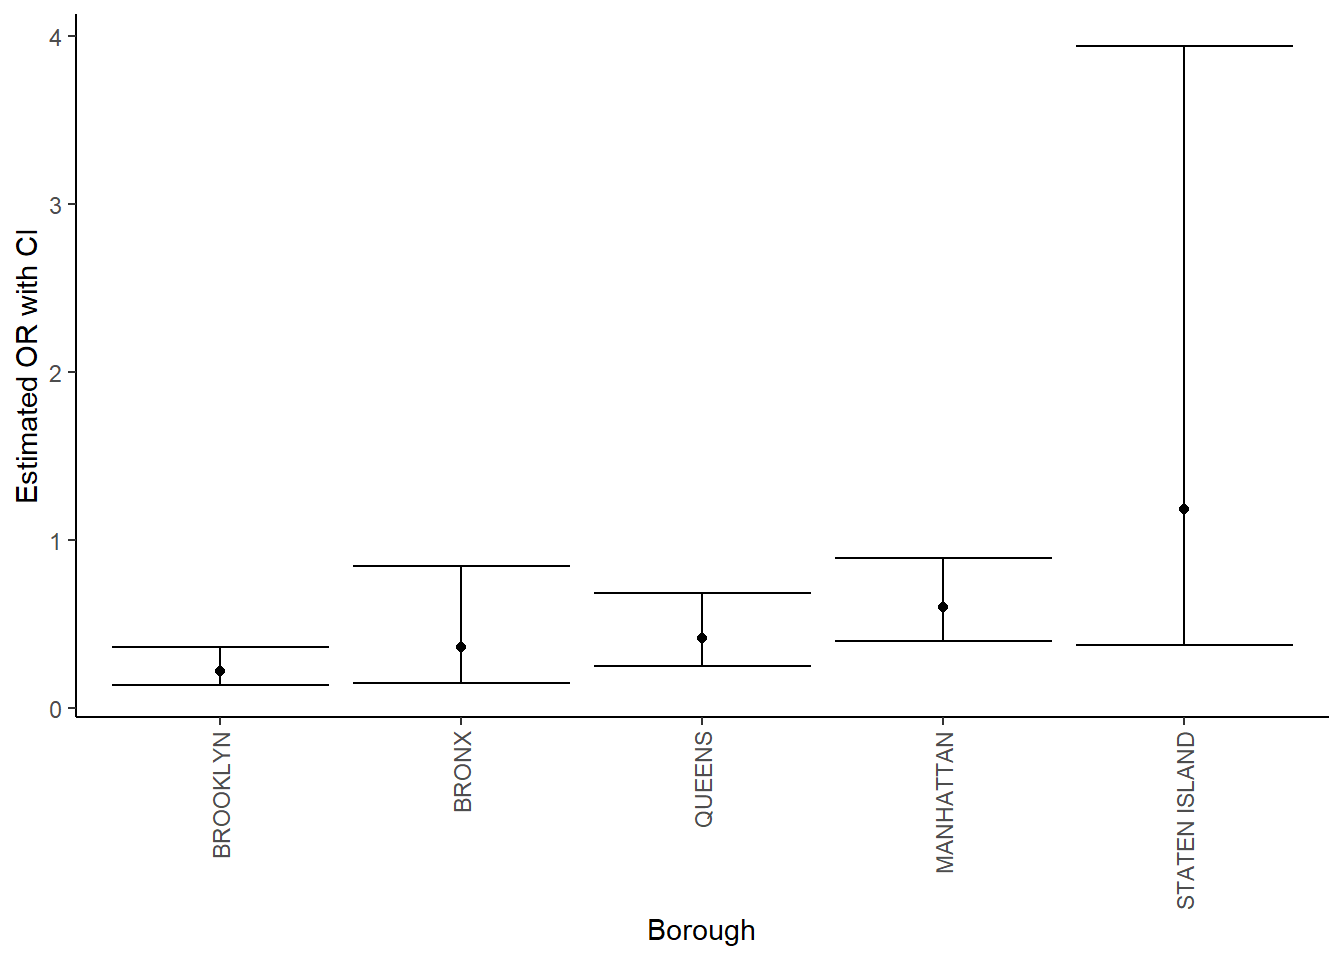
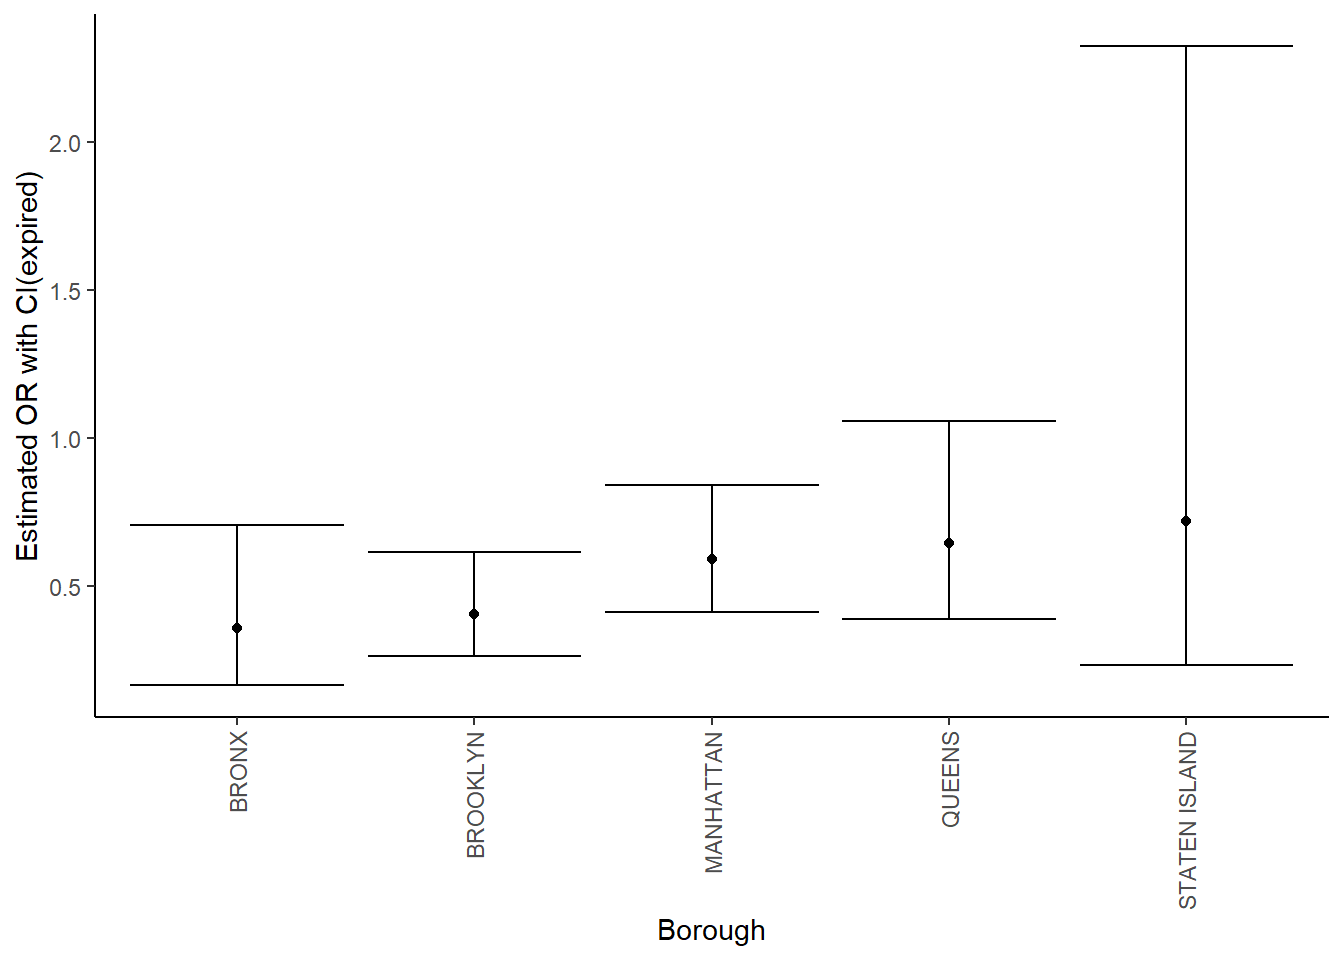
add another OR plot

diff --git a/logistic.html b/logistic.html
@@ -374,7 +374,7 @@ child_data &lt;- child_data %&gt;%
 <p>#fit a logistic regression with violation vs no violation as the
 outcome and the rest as predictors.And Obtain the estimate and CI of the
 adjusted odds ratio for having violation.</p>
-<pre class="r"><code>model_log &lt;- glm(violation ~ status  + facility_type + educational_worker_ratio,data = child_data,family = binomial(link=logit))
+<pre class="r"><code>model_log &lt;- glm(violation ~ status  + program_type + educational_worker_ratio,data = child_data,family = binomial(link=logit))
 model_log %&gt;%
   broom::tidy(conf.int = T) %&gt;% 
   mutate(OR = exp(estimate),
@@ -386,11 +386,11 @@ model_log %&gt;%
                col.names = c(&quot;Term&quot;, &quot;Estimated adjusted OR&quot;, &quot;CI lower bound&quot;, &quot;CI upper bound&quot;, &quot;p-value&quot;))</code></pre>
 <table>
 <colgroup>
-<col width="28%" />
-<col width="26%" />
-<col width="18%" />
-<col width="18%" />
-<col width="9%" />
+<col width="30%" />
+<col width="25%" />
+<col width="17%" />
+<col width="17%" />
+<col width="8%" />
 </colgroup>
 <thead>
 <tr class="header">
@@ -404,44 +404,51 @@ model_log %&gt;%
 <tbody>
 <tr class="odd">
 <td align="left">(Intercept)</td>
-<td align="center">2.770</td>
-<td align="center">9.678</td>
-<td align="center">29.820</td>
+<td align="center">2.546</td>
+<td align="center">7.396</td>
+<td align="center">2.575800e+01</td>
 <td align="left">&lt;0.0001</td>
 </tr>
 <tr class="even">
 <td align="left">statusExpired-In Renewal</td>
-<td align="center">0.349</td>
-<td align="center">1.316</td>
-<td align="center">1.556</td>
+<td align="center">0.379</td>
+<td align="center">1.360</td>
+<td align="center">1.593000e+00</td>
 <td align="left">&lt;0.0001</td>
 </tr>
 <tr class="odd">
 <td align="left">statusPermitted</td>
-<td align="center">0.329</td>
-<td align="center">1.291</td>
-<td align="center">1.524</td>
+<td align="center">0.358</td>
+<td align="center">1.341</td>
+<td align="center">1.544000e+00</td>
 <td align="left">&lt;0.0001</td>
 </tr>
 <tr class="even">
-<td align="left">facility_typegdc</td>
-<td align="center">1.065</td>
-<td align="center">2.496</td>
-<td align="center">3.452</td>
-<td align="left">0.42</td>
+<td align="left">program_typeinfant toddler</td>
+<td align="center">0.981</td>
+<td align="center">2.264</td>
+<td align="center">3.248000e+00</td>
+<td align="left">0.84</td>
 </tr>
 <tr class="odd">
-<td align="left">facility_typesbcc</td>
-<td align="center">NA</td>
-<td align="center">NA</td>
-<td align="center">NA</td>
-<td align="left">NA</td>
+<td align="left">program_typepreschool</td>
+<td align="center">1.060</td>
+<td align="center">2.485</td>
+<td align="center">3.434000e+00</td>
+<td align="left">0.45</td>
 </tr>
 <tr class="even">
+<td align="left">program_typeschool age camp</td>
+<td align="center">2.072</td>
+<td align="center">1.219</td>
+<td align="center">2.510005e+19</td>
+<td align="left">0.55</td>
+</tr>
+<tr class="odd">
 <td align="left">educational_worker_ratio</td>
-<td align="center">0.431</td>
-<td align="center">1.409</td>
-<td align="center">1.716</td>
+<td align="center">0.474</td>
+<td align="center">1.444</td>
+<td align="center">1.843000e+00</td>
 <td align="left">&lt;0.0001</td>
 </tr>
 </tbody>
@@ -456,37 +463,42 @@ head(predicted.classes)</code></pre>
 <pre class="r"><code>summary(model_log)</code></pre>
 <pre><code>## 
 ## Call:
-## glm(formula = violation ~ status + facility_type + educational_worker_ratio, 
+## glm(formula = violation ~ status + program_type + educational_worker_ratio, 
 ##     family = binomial(link = logit), data = child_data)
 ## 
 ## Deviance Residuals: 
 ##    Min      1Q  Median      3Q     Max  
-## -1.629  -1.115  -1.023   1.236   1.642  
+## -1.617  -1.117  -1.012   1.233   1.624  
 ## 
-## Coefficients: (1 not defined because of singularities)
-##                          Estimate Std. Error z value Pr(&gt;|z|)    
-## (Intercept)               1.01874    0.10265   9.925  &lt; 2e-16 ***
-## statusExpired-In Renewal -1.05180    0.12118  -8.679  &lt; 2e-16 ***
-## statusPermitted          -1.11244    0.12771  -8.711  &lt; 2e-16 ***
-## facility_typegdc          0.06256    0.07738   0.808    0.419    
-## facility_typesbcc              NA         NA      NA       NA    
-## educational_worker_ratio -0.84257    0.11571  -7.282  3.3e-13 ***
+## Coefficients:
+##                             Estimate Std. Error z value Pr(&gt;|z|)    
+## (Intercept)                  0.93445    0.12360   7.560 4.02e-14 ***
+## statusExpired-In Renewal    -0.96972    0.10542  -9.199  &lt; 2e-16 ***
+## statusPermitted             -1.02804    0.10052 -10.227  &lt; 2e-16 ***
+## program_typeinfant toddler  -0.01907    0.09333  -0.204    0.838    
+## program_typepreschool        0.05803    0.07757   0.748    0.454    
+## program_typeschool age camp  0.72841    1.22644   0.594    0.553    
+## educational_worker_ratio    -0.74612    0.13009  -5.735 9.73e-09 ***
 ## ---
 ## Signif. codes:  0 &#39;***&#39; 0.001 &#39;**&#39; 0.01 &#39;*&#39; 0.05 &#39;.&#39; 0.1 &#39; &#39; 1
 ## 
 ## (Dispersion parameter for binomial family taken to be 1)
 ## 
 ##     Null deviance: 22719  on 16453  degrees of freedom
-## Residual deviance: 22551  on 16449  degrees of freedom
-## AIC: 22561
+## Residual deviance: 22548  on 16447  degrees of freedom
+## AIC: 22562
 ## 
 ## Number of Fisher Scoring iterations: 4</code></pre>
-<p>###visualization</p>
-<pre class="r"><code>#  Extract the adjusted odds ratio (and CI) for having violation comparing licence type of &quot;permitted&quot; against &quot;Expired-in renewal&quot; from all the boroughs.
-all_logistic = child_data %&gt;% 
+<p>##We can see from the summary that the licence status and educational
+worker ratio of the child care centers are significant predictors of the
+violation rate with p-value&lt; 0.05 while the facility type doesn’t
+significantly influence the violation rate with p-value&gt;0.05.
+###visualization</p>
+<pre class="r"><code>#  Extract the adjusted odds ratio (and CI) for having violation comparing licence type of &quot;active&quot; against &quot;Expired-in renewal&quot; from all the boroughs.
+all_logistic_E = child_data %&gt;% 
   nest(data = -borough) %&gt;% 
   mutate(
-    models = map(data, ~glm(violation ~ status  +  facility_type + educational_worker_ratio, data = ., family = binomial(link = &quot;logit&quot;))),
+    models = map(data, ~glm(violation ~ status  +  program_type + educational_worker_ratio, data = ., family = binomial(link = &quot;logit&quot;))),
     results = map(models, ~broom::tidy(.x, conf.int = T))) %&gt;% 
   select(borough, results) %&gt;% 
   unnest(results) %&gt;% 
@@ -498,7 +510,7 @@ all_logistic = child_data %&gt;%
   ) %&gt;% 
   filter(term == &quot;statusExpired-In Renewal&quot;) %&gt;% 
   select(borough, OR, CI_lower,CI_upper, p_val) 
-all_logistic %&gt;% 
+all_logistic_E %&gt;% 
   knitr::kable(digits = 3, align = &quot;llccc&quot;, col.names = c(&quot;Borough&quot;, &quot;Estimated adjusted OR&quot;, &quot;CI lower bound&quot;, &quot;CI upper bound&quot;, &quot;p-value&quot;))</code></pre>
 <table>
 <colgroup>
@@ -520,58 +532,141 @@ all_logistic %&gt;%
 <tbody>
 <tr class="odd">
 <td align="left">BROOKLYN</td>
-<td align="left">0.224</td>
-<td align="center">0.136</td>
-<td align="center">0.365</td>
+<td align="left">0.406</td>
+<td align="center">0.265</td>
+<td align="center">0.614</td>
 <td align="center">&lt;0.0001</td>
 </tr>
 <tr class="even">
 <td align="left">BRONX</td>
-<td align="left">0.366</td>
-<td align="center">0.149</td>
-<td align="center">0.847</td>
-<td align="center">0.02245</td>
+<td align="left">0.357</td>
+<td align="center">0.165</td>
+<td align="center">0.708</td>
+<td align="center">0.00519</td>
 </tr>
 <tr class="odd">
 <td align="left">QUEENS</td>
-<td align="left">0.417</td>
-<td align="center">0.252</td>
-<td align="center">0.684</td>
-<td align="center">0.0006</td>
+<td align="left">0.644</td>
+<td align="center">0.390</td>
+<td align="center">1.057</td>
+<td align="center">0.08323</td>
 </tr>
 <tr class="even">
 <td align="left">MANHATTAN</td>
-<td align="left">0.602</td>
-<td align="center">0.402</td>
-<td align="center">0.895</td>
-<td align="center">0.01274</td>
+<td align="left">0.592</td>
+<td align="center">0.413</td>
+<td align="center">0.843</td>
+<td align="center">0.00395</td>
 </tr>
 <tr class="odd">
 <td align="left">STATEN ISLAND</td>
-<td align="left">1.188</td>
-<td align="center">0.375</td>
-<td align="center">3.943</td>
-<td align="center">0.77021</td>
+<td align="left">0.721</td>
+<td align="center">0.235</td>
+<td align="center">2.323</td>
+<td align="center">0.56915</td>
+</tr>
+</tbody>
+</table>
+<pre class="r"><code>all_logistic_P = child_data %&gt;% 
+  nest(data = -borough) %&gt;% 
+  mutate(
+    models = map(data, ~glm(violation ~ status  +  program_type + educational_worker_ratio, data = ., family = binomial(link = &quot;logit&quot;))),
+    results = map(models, ~broom::tidy(.x, conf.int = T))) %&gt;% 
+  select(borough, results) %&gt;% 
+  unnest(results) %&gt;% 
+  mutate(
+    OR = exp(estimate),
+    CI_lower = exp(conf.low),
+    CI_upper = exp(conf.high),
+    p_val = rstatix::p_format(p.value, digits = 2)
+  ) %&gt;% 
+  filter(term == &quot;statusPermitted&quot;) %&gt;% 
+  select(borough, OR, CI_lower,CI_upper, p_val) 
+all_logistic_P %&gt;% 
+  knitr::kable(digits = 3, align = &quot;llccc&quot;, col.names = c(&quot;Borough&quot;, &quot;Estimated adjusted OR&quot;, &quot;CI lower bound&quot;, &quot;CI upper bound&quot;, &quot;p-value&quot;))</code></pre>
+<table>
+<colgroup>
+<col width="18%" />
+<col width="28%" />
+<col width="20%" />
+<col width="20%" />
+<col width="11%" />
+</colgroup>
+<thead>
+<tr class="header">
+<th align="left">Borough</th>
+<th align="left">Estimated adjusted OR</th>
+<th align="center">CI lower bound</th>
+<th align="center">CI upper bound</th>
+<th align="center">p-value</th>
+</tr>
+</thead>
+<tbody>
+<tr class="odd">
+<td align="left">BROOKLYN</td>
+<td align="left">0.314</td>
+<td align="center">0.206</td>
+<td align="center">0.470</td>
+<td align="center">&lt;0.0001</td>
+</tr>
+<tr class="even">
+<td align="left">BRONX</td>
+<td align="left">0.433</td>
+<td align="center">0.204</td>
+<td align="center">0.836</td>
+<td align="center">0.01894</td>
+</tr>
+<tr class="odd">
+<td align="left">QUEENS</td>
+<td align="left">0.292</td>
+<td align="center">0.198</td>
+<td align="center">0.422</td>
+<td align="center">&lt;0.0001</td>
+</tr>
+<tr class="even">
+<td align="left">MANHATTAN</td>
+<td align="left">0.454</td>
+<td align="center">0.320</td>
+<td align="center">0.640</td>
+<td align="center">&lt;0.0001</td>
+</tr>
+<tr class="odd">
+<td align="left">STATEN ISLAND</td>
+<td align="left">0.478</td>
+<td align="center">0.162</td>
+<td align="center">1.485</td>
+<td align="center">0.18184</td>
 </tr>
 </tbody>
 </table>
 <pre class="r"><code># Create a plot showing the estimated ORs and CIs for each borough
-all_logistic %&gt;% 
+all_logistic_E %&gt;% 
   mutate(borough = fct_reorder(borough, OR)) %&gt;%
   ggplot(aes(x = borough, y = OR)) +
   geom_point() +
   geom_errorbar(aes(ymin = CI_lower, ymax = CI_upper)) +
   theme(axis.text.x = element_text(angle = 90, vjust = 0.5, hjust = 1)) +
-  labs(x = &quot;Borough&quot;, y = &quot;Estimated OR with CI&quot;)</code></pre>
+  labs(x = &quot;Borough&quot;, y = &quot;Estimated OR with CI(expired)&quot;)</code></pre>
 <p><img src="logistic_files/figure-html/unnamed-chunk-9-1.png" width="672" /></p>
-<p>##From this plot we can see that in Brooklyn, Bronx, Queens and
+<pre class="r"><code>all_logistic_P %&gt;% 
+  mutate(borough = fct_reorder(borough, OR)) %&gt;%
+  ggplot(aes(x = borough, y = OR)) +
+  geom_point() +
+  geom_errorbar(aes(ymin = CI_lower, ymax = CI_upper)) +
+  theme(axis.text.x = element_text(angle = 90, vjust = 0.5, hjust = 1)) +
+  labs(x = &quot;Borough&quot;, y = &quot;Estimated OR with CI(permitted)&quot;)</code></pre>
+<p><img src="logistic_files/figure-html/unnamed-chunk-9-2.png" width="672" /></p>
+<p>##From these two plots we can see that in Brooklyn, Bronx and
+Manhattan, the 95% confidence interval of odds ratio doesn’t include 1
+and this tells us that in these three regions, cases with licence status
+of active generally have less violation than cases with status of
+expired or in-renewal. Similarly, in Brooklyn, Bronx, Queens and
 Manhattan, the 95% confidence interval of odds ratio doesn’t include 1
 and this tells us that in these four regions, cases with licence status
-of permitted generally have less violation than cases with status of
-expired or in-renewal. ###Model diagnostics #1. Remove categorical
-variables from the original data frame and bind the logit values to the
-data</p>
-<pre class="r"><code>#select only numeric preditors
+of active generally have less violation than cases with status of
+permitted. ###Model diagnostics #1. Remove categorical variables from
+the original data frame and bind the logit values to the data</p>
+<pre class="r"><code>#select only numeric predictors
 child_data &lt;- child_data %&gt;%
   dplyr::select(educational_worker_ratio) 
 predictors &lt;- colnames(child_data)
@@ -595,6 +690,10 @@ ggplot(model_log.data, aes(index, .std.resid)) +
   geom_point(aes(color = violation), alpha = .5) +
   theme_bw()</code></pre>
 <p><img src="logistic_files/figure-html/unnamed-chunk-12-1.png" width="672" /></p>
+<p>###Diagnostic Conclusion</p>
+<p>From the plot we can see that the standard deviation of the data are
+all in acceptable region which means there’s no significant outliers in
+the dataset.</p>
 
 
 
